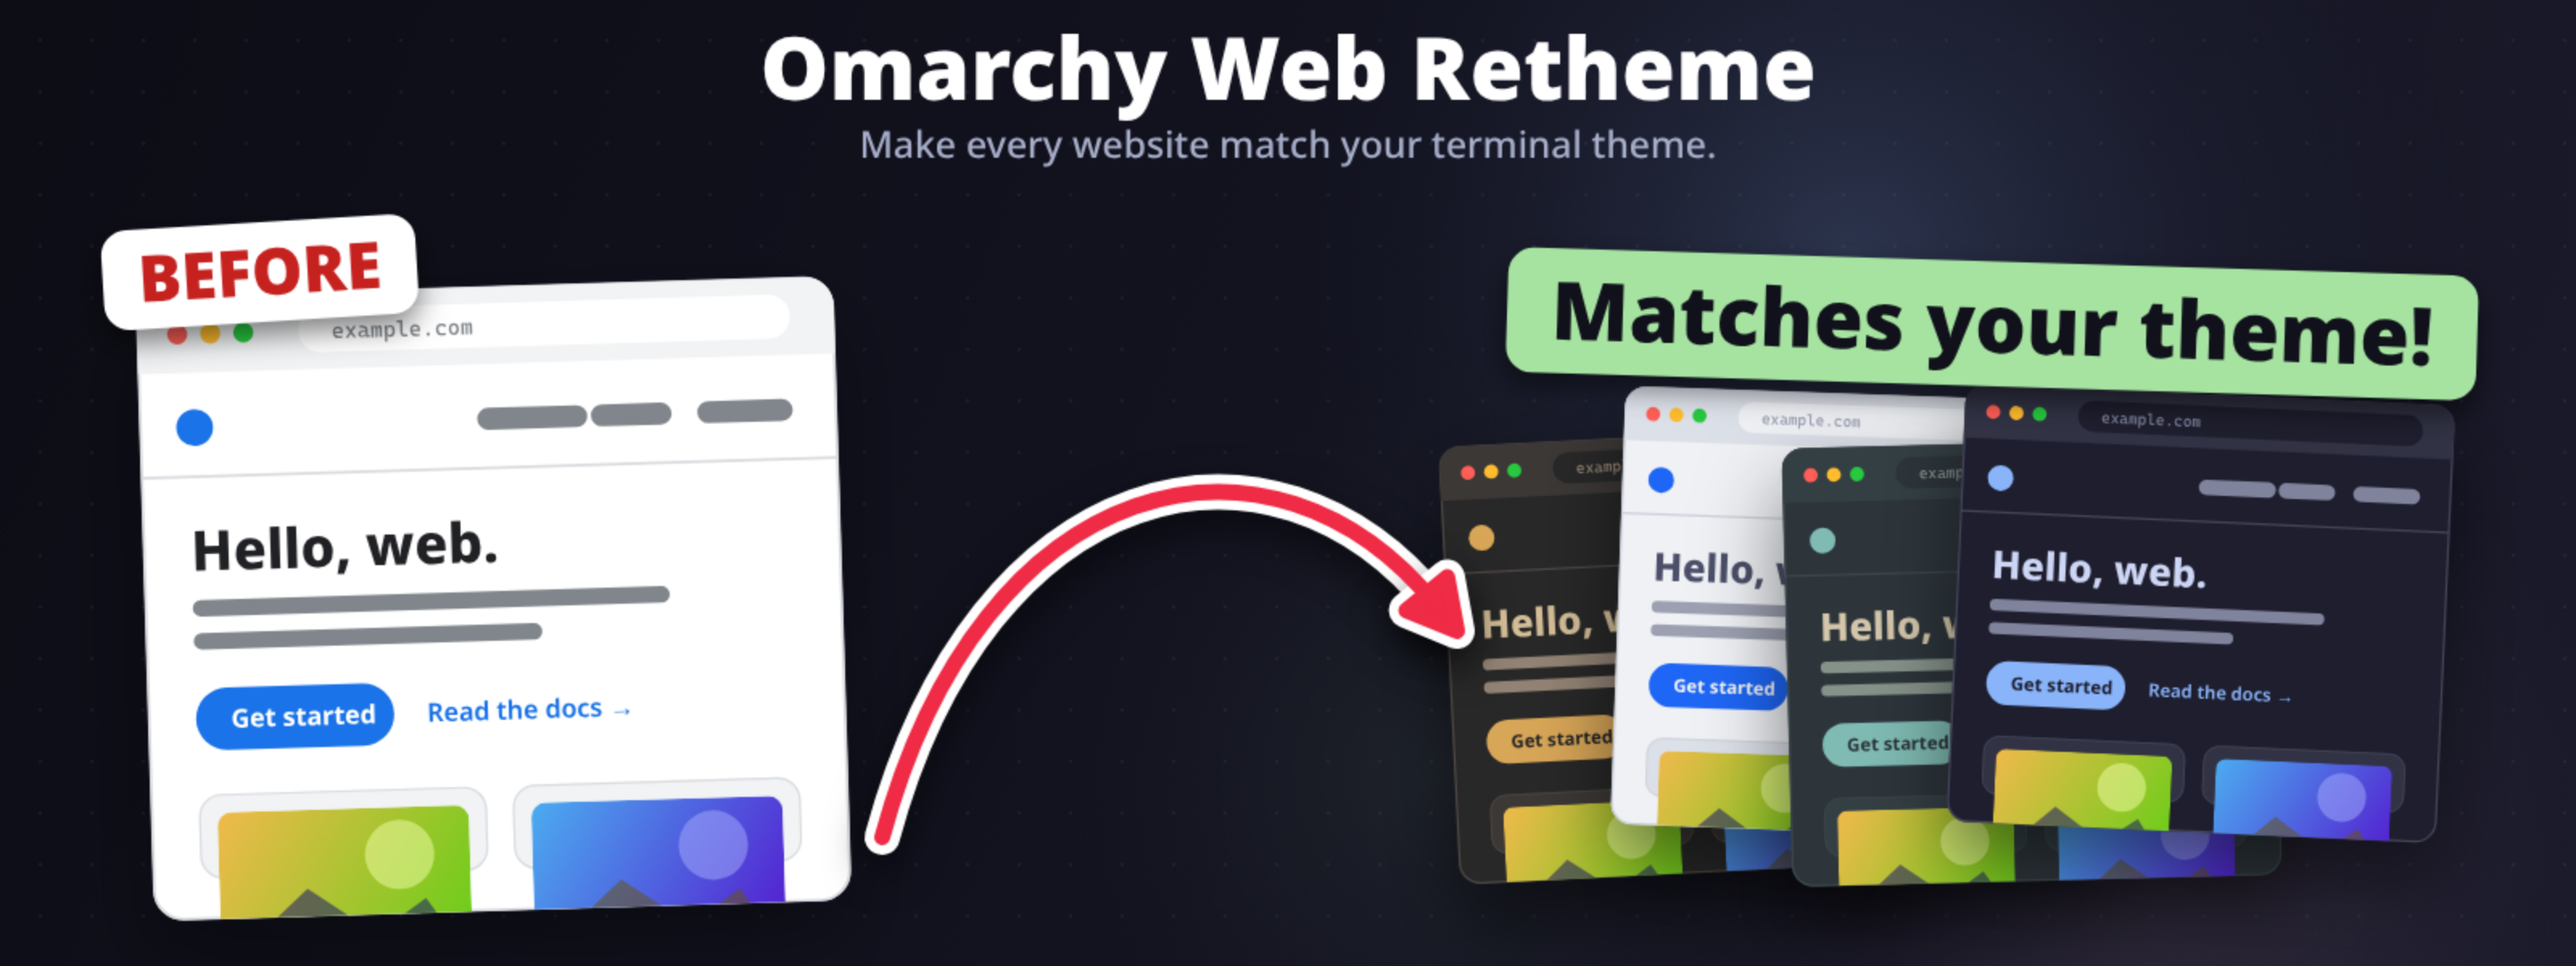
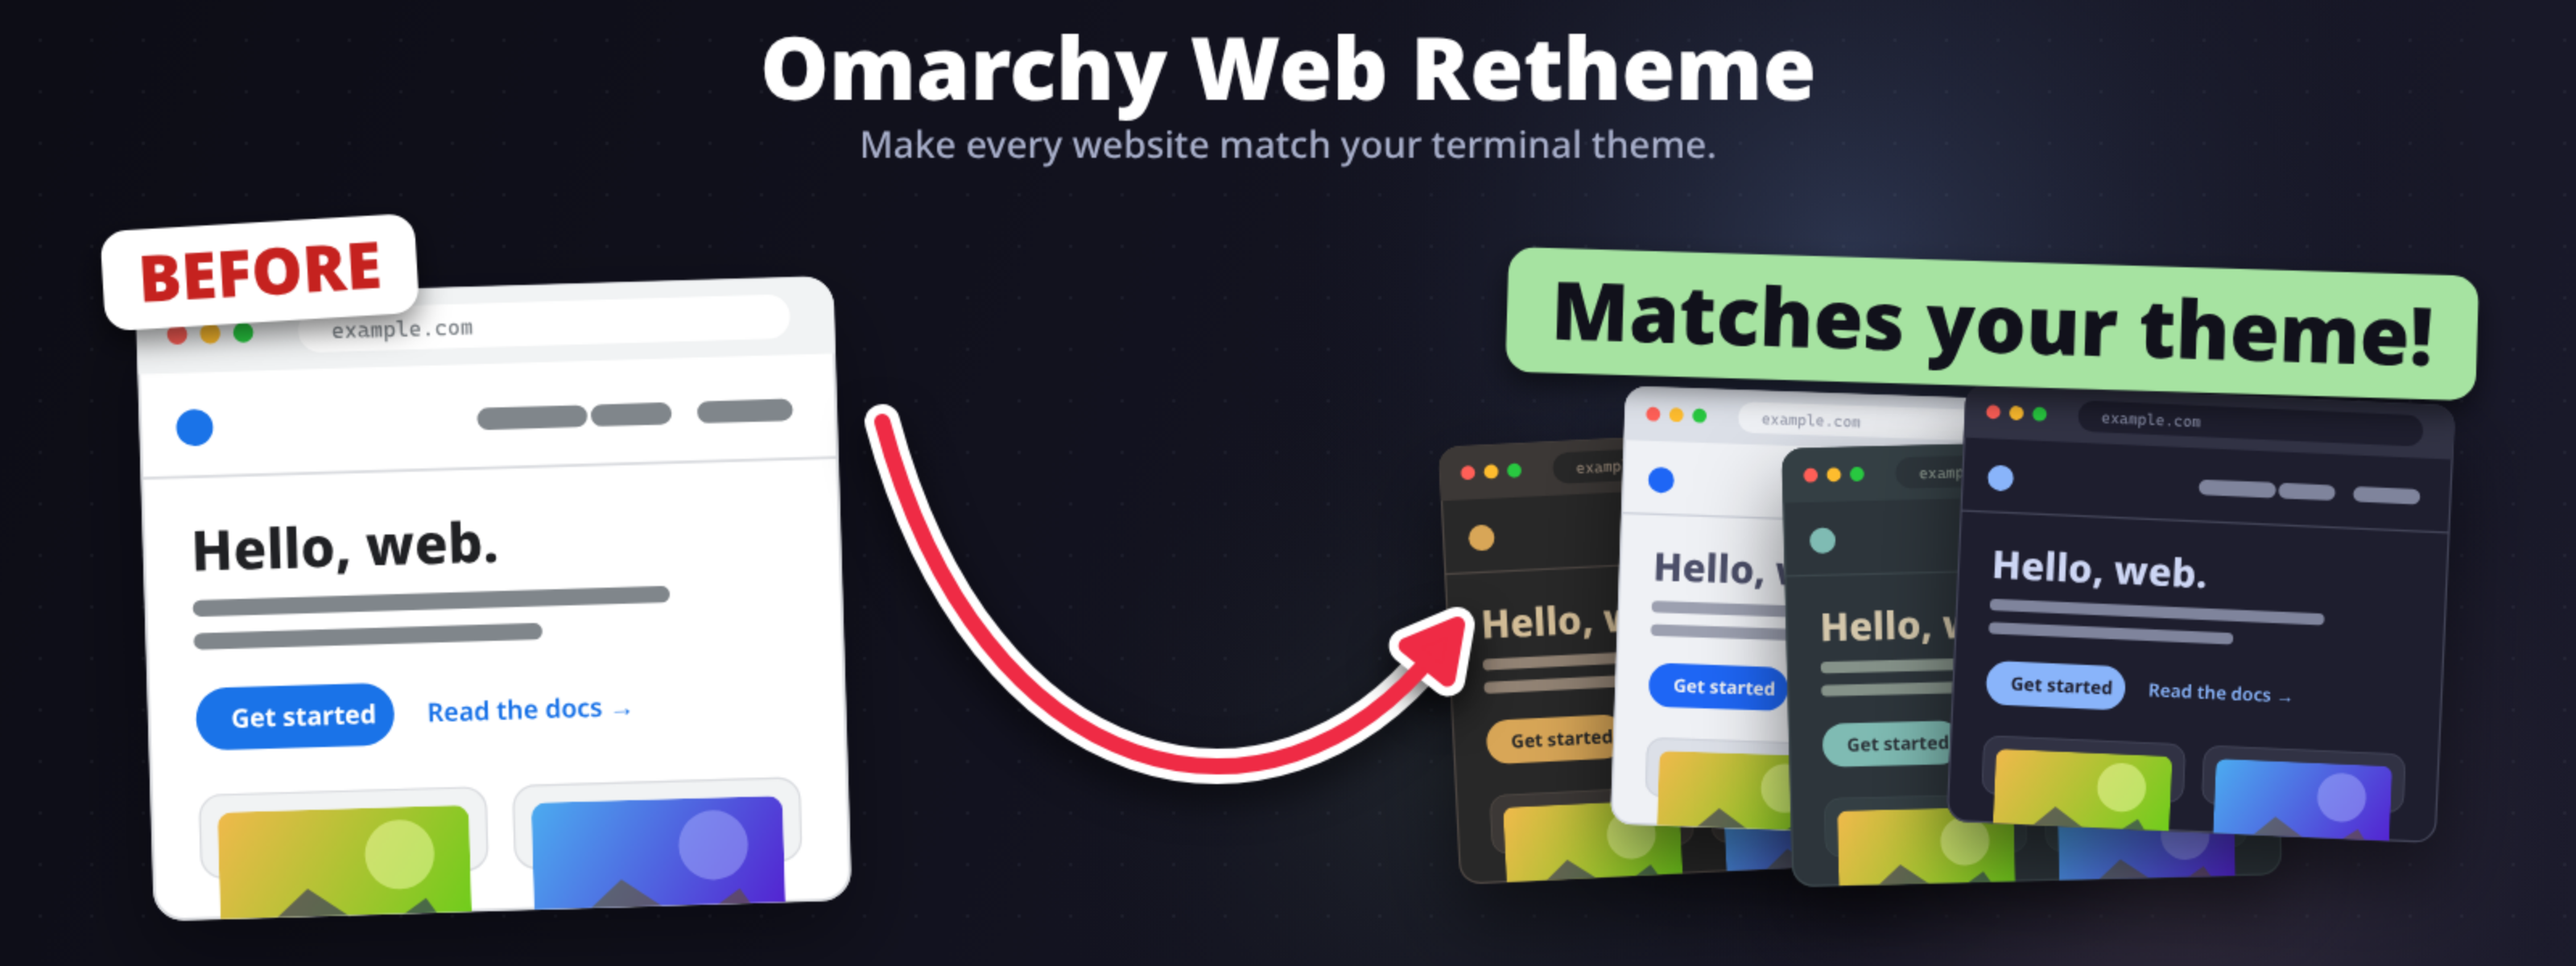
Header: arc the arrow downward

Changed region(s): [[0.3125, 0.4317, 0.5938, 0.8942]]

diff --git a/docs/header.html b/docs/header.html
@@ -146,7 +146,7 @@ function draw() {
    [THEMES.everforest, 1110, 275, -0.025], [THEMES.catppuccin, 1215, 245, 0.045]]
     .forEach(([p, x, y, rot]) => site({ x, y, w: ww, h: wh, scale: S, rot, p }));
 
-  arrow([548, 520], [610, 290], [790, 250], [905, 392]);
+  arrow([548, 262], [610, 492], [790, 532], [905, 388]);
   sticker("BEFORE", 64, 178, -0.06, "#ffffff", "#c5221f");
   sticker("Matches your theme!", 936, 196, 0.03, "#a6e3a1", "#11111b", 50);
   title();
